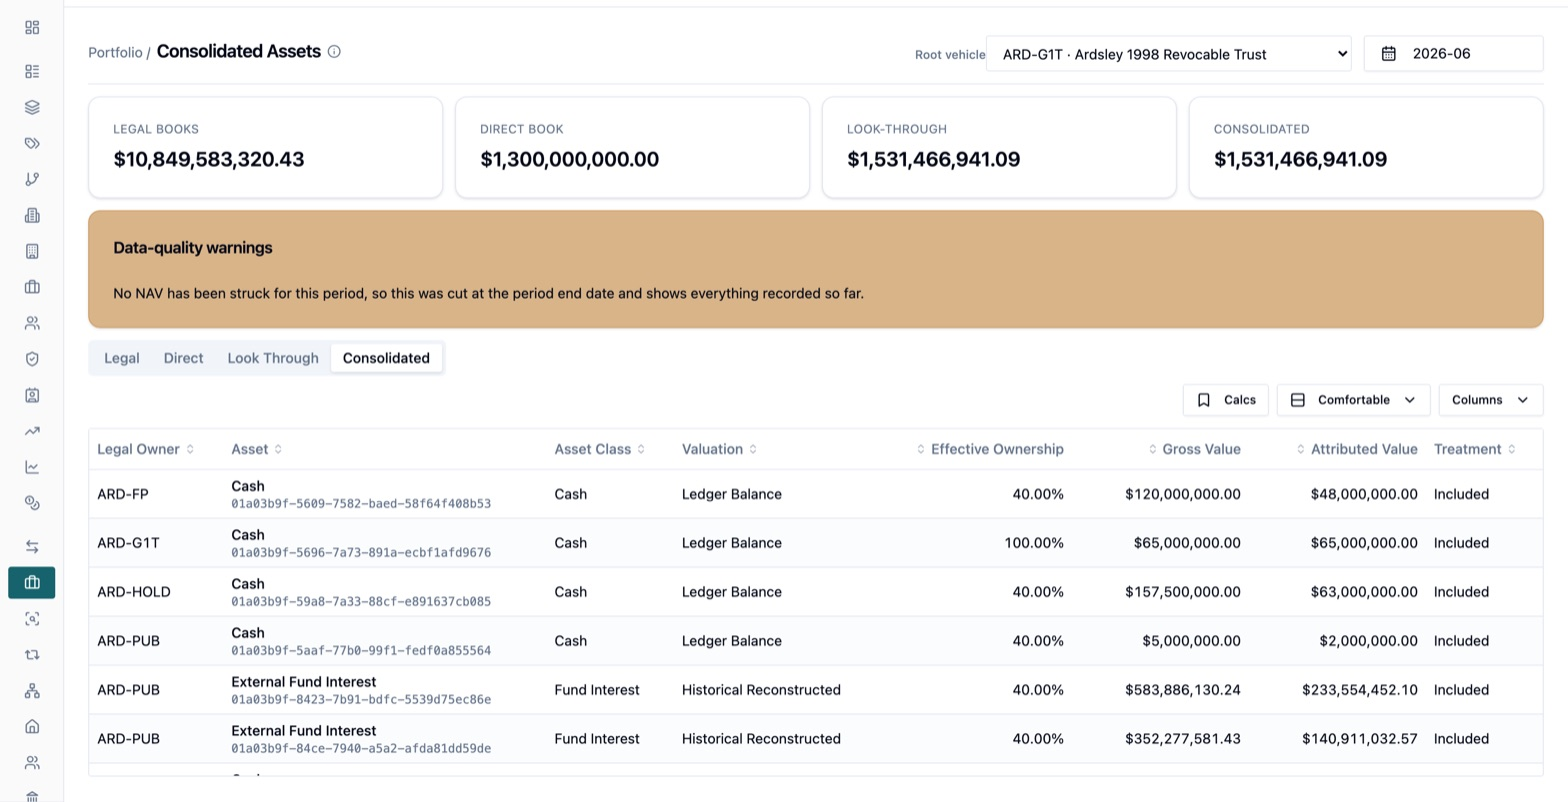
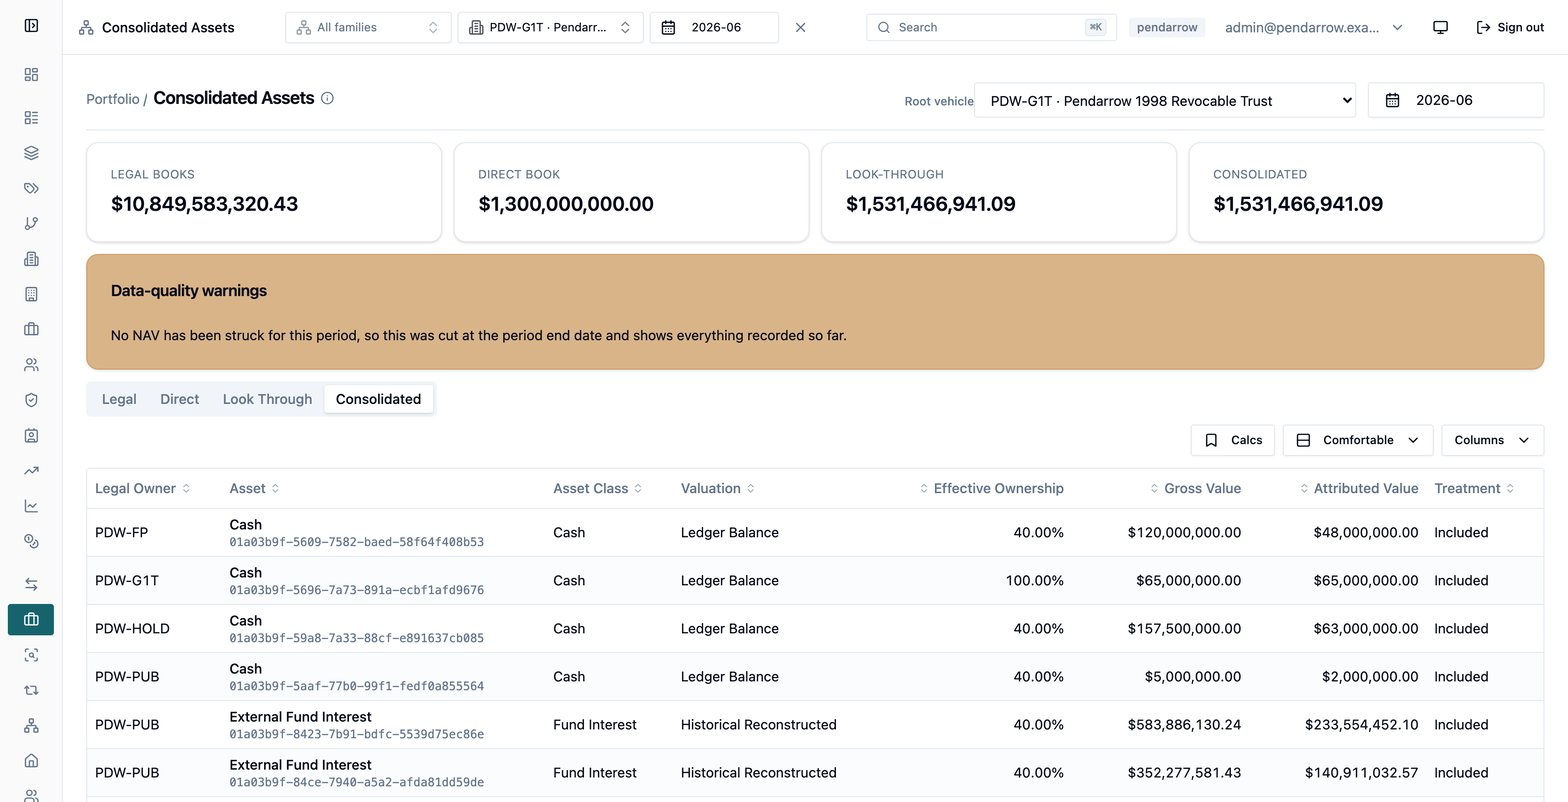
screens: re-shoot the family-office images off the renamed tenant
The published structure diagram carried a real hedge fund's name three ways.
Every figure is unchanged; only the labels moved.

Mirrors 1494labs/janus@5cd8e88d

diff --git a/family-office-accounting/index.html b/family-office-accounting/index.html
@@ -142,7 +142,7 @@
     </p>
 
     <figure class="shot">
-      <img src="/assets/screens/structure-flow.jpg" width="1568" height="728"
+      <img src="/assets/screens/structure-flow.jpg" width="1568" height="727"
            loading="lazy" decoding="async" alt="An ownership structure drawn as a flow diagram: four family trusts converging on a holding company of $3.67bn, through a family partnership, out to six asset sleeves and a co-investment vehicle.">
       <figcaption><b>Four trusts, one holding company, six sleeves.</b> Band width is the value passing <em>through</em> each vehicle, so a holding company worth $157.5m on its own books and controlling $3.67bn reads as what it is. Nobody typed a percentage.</figcaption>
     </figure>
@@ -172,7 +172,7 @@
     </p>
 
     <figure class="shot">
-      <img src="/assets/screens/structure-graph.jpg" width="1568" height="812"
+      <img src="/assets/screens/structure-graph.jpg" width="1568" height="811"
            loading="lazy" decoding="async" alt="The whole ownership structure as an org chart: four trusts, a holding company, a family partnership, six asset vehicles and a co-investment vehicle.">
       <figcaption><b>Every vehicle once, with its owners converging on it.</b> Ownership is a directed graph, not a tree, so drawing it as a forest of trees would repeat the shared vehicles once per branch.</figcaption>
     </figure>

diff --git a/index.html b/index.html
@@ -580,7 +580,7 @@ footer.site{border-top:1px solid var(--rule);padding:34px 0 56px;margin-top:clam
     </div>
 
     <figure class="shot">
-      <img src="/assets/screens/structure-flow.jpg" width="1568" height="728"
+      <img src="/assets/screens/structure-flow.jpg" width="1568" height="727"
            loading="lazy" decoding="async"
            alt="An ownership structure drawn as a flow diagram: four family trusts converging on a holding company of $3.67bn, through a family partnership, out to six asset sleeves and a co-investment vehicle.">
       <figcaption>
